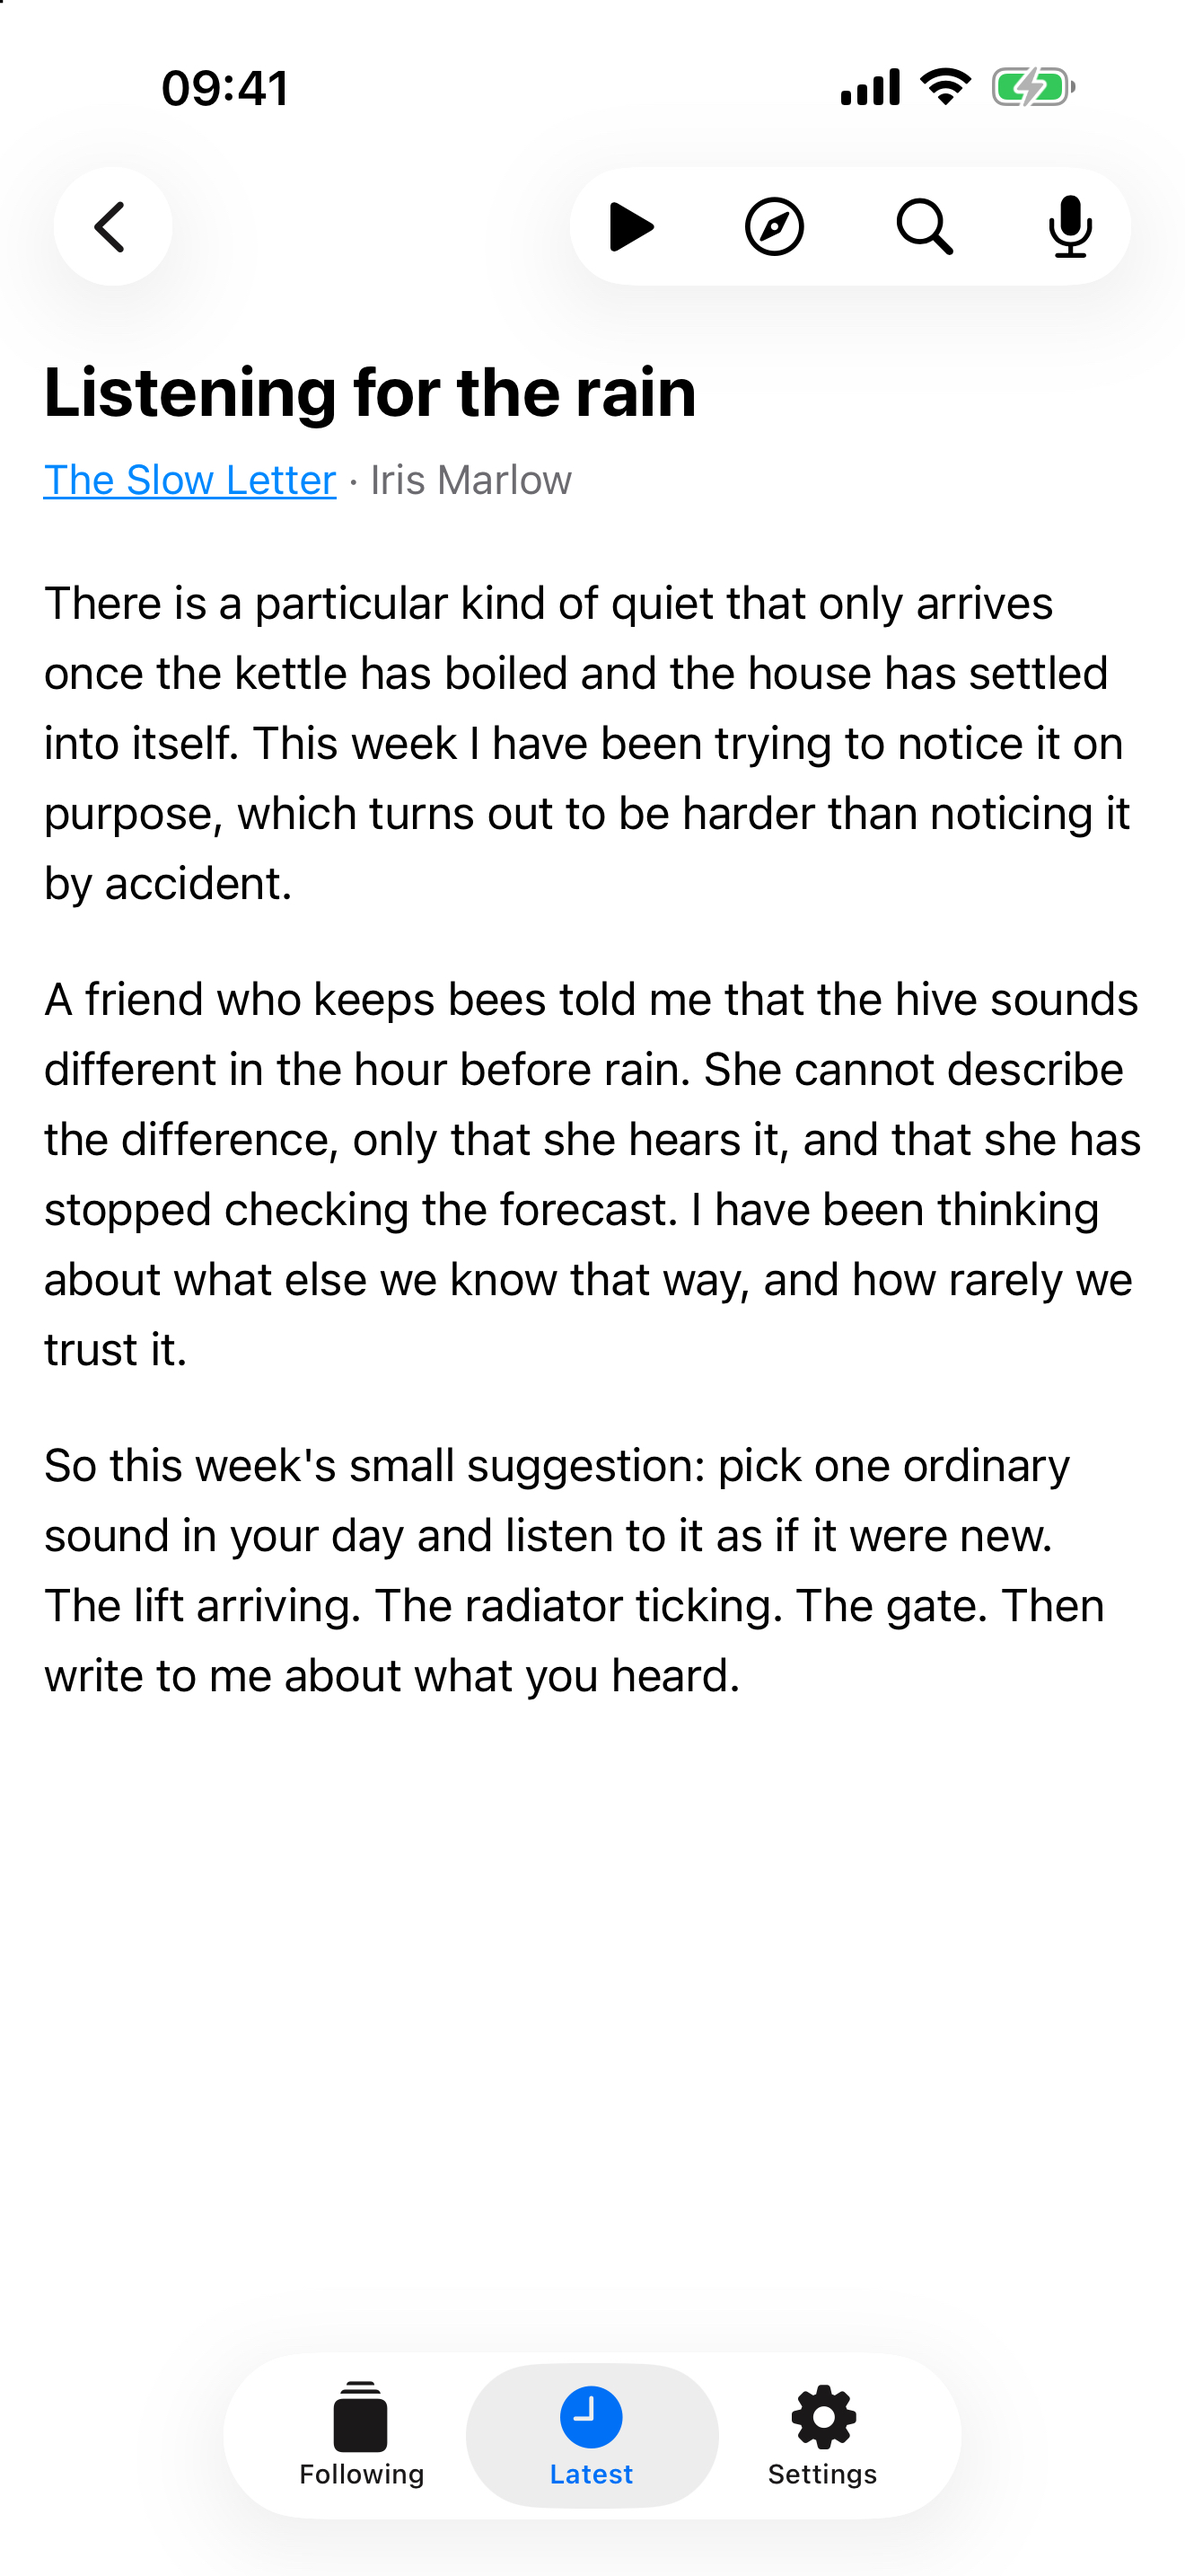
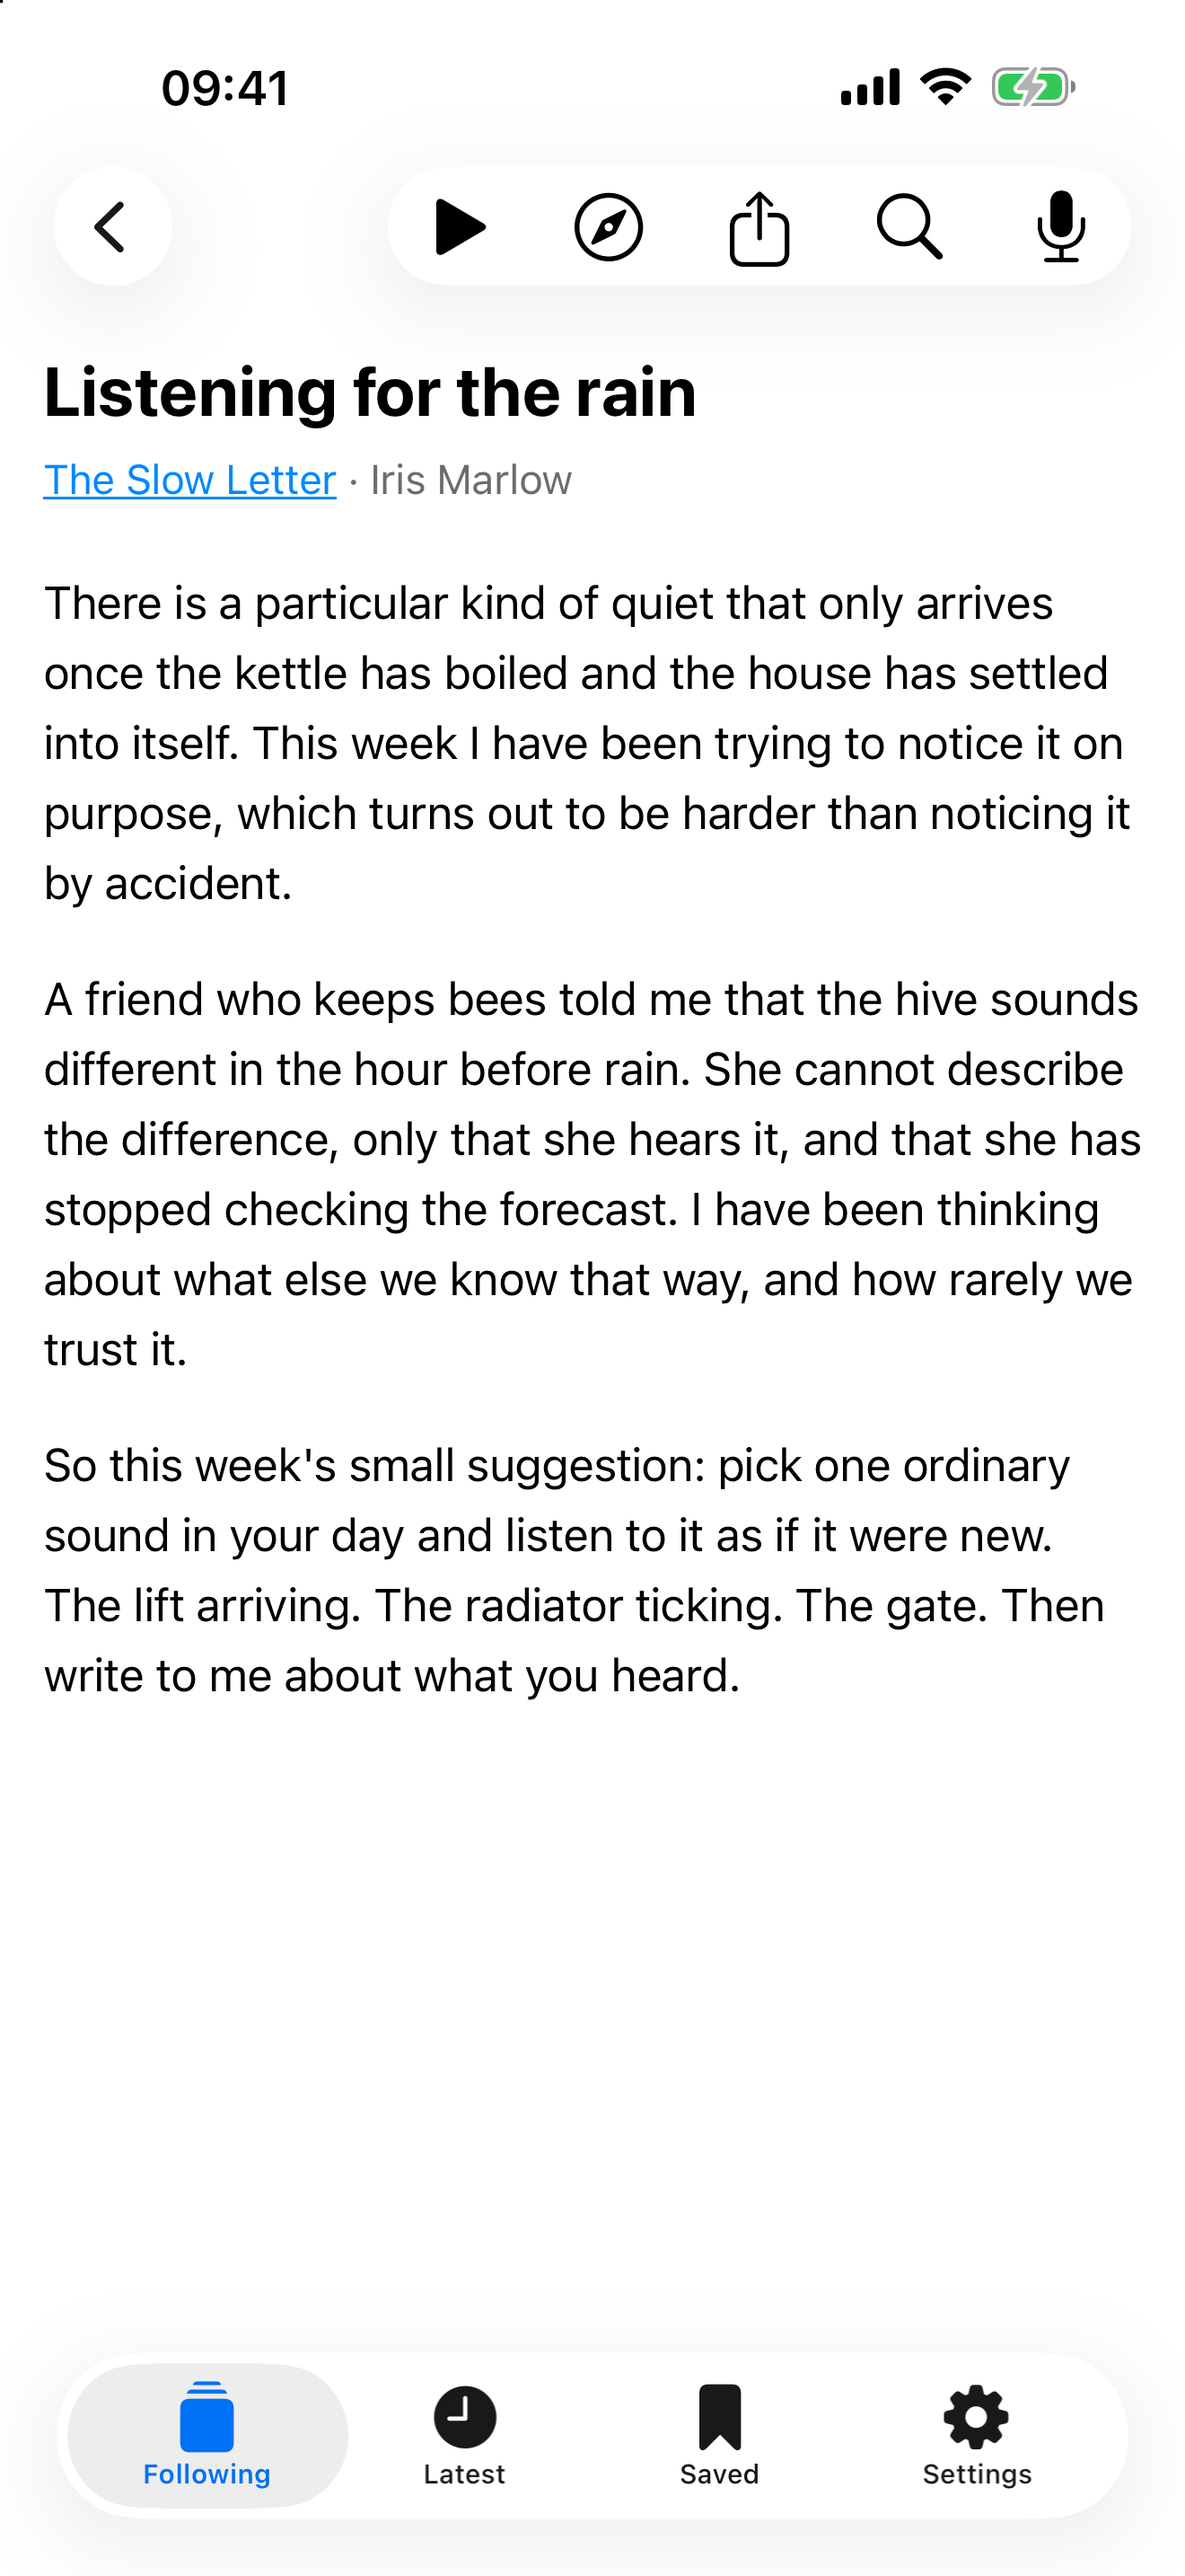
screenshots

diff --git a/scripts/seed_app_store_screenshots.py b/scripts/seed_app_store_screenshots.py
@@ -29,6 +29,7 @@ from audioreader.models import (
     PlaybackPosition,
     Subscription,
 )
+from audioreader.saved import SaveRequest, save
 
 FIXTURE_PREFIX = "https://hearful.invalid/app-store/"
 
@@ -359,8 +360,26 @@ async def seed() -> None:
         )
         await session.commit()
 
+        # Captured pages from outside the followed feeds, using the same save
+        # path as the share extension. No network fetch or personal data.
+        for url, title, body in (
+            ("https://fieldnotes.example/attention", "In praise of doing one thing at a time", SUNDAY_ESSAY_ATTENTION),
+            ("https://smallhours.example/rain", "Listening for the rain", SLOW_LETTER_ISSUE_ONE),
+            ("https://commonplace.example/objects", "The objects we keep", SUNDAY_ESSAY_OBJECTS),
+        ):
+            await save(
+                session,
+                user,
+                SaveRequest(
+                    url=url,
+                    title=title,
+                    html=f"<html><head><title>{title}</title></head><body><article>"
+                    f"<h1>{title}</h1>{paragraphs(body)}</article></body></html>",
+                ),
+            )
+
     await engine.dispose()
-    print("Seeded 4 fictional shows, 8 episodes and 1 waiting newsletter sender for the simulator account")
+    print("Seeded 4 fictional shows, 8 episodes, 3 saved pages and 1 waiting newsletter sender")
 
 
 if __name__ == "__main__":

diff --git a/app-store/README.md b/app-store/README.md
@@ -60,7 +60,8 @@ The fixture command uses an isolated SQLite database under the ignored
 rebuilds only that dedicated database with records under the reserved
 `hearful.invalid` domain. It gives phone and iPad captures the same three
 feeds, one followed email newsletter, one sender waiting for an answer, their
-episodes and issues, a newsletter address and a listening position every time;
+episodes and issues, three captured web pages in Saved, a newsletter address
+and a listening position every time;
 the app itself still fetches and renders them through its real backend and
 production views. The backend target switches newsletters on with the real
 inbound domain and an invented address, so the Settings screen shows the
